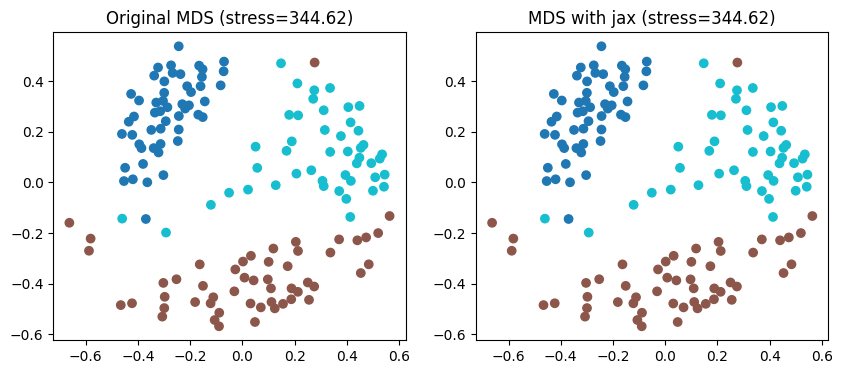
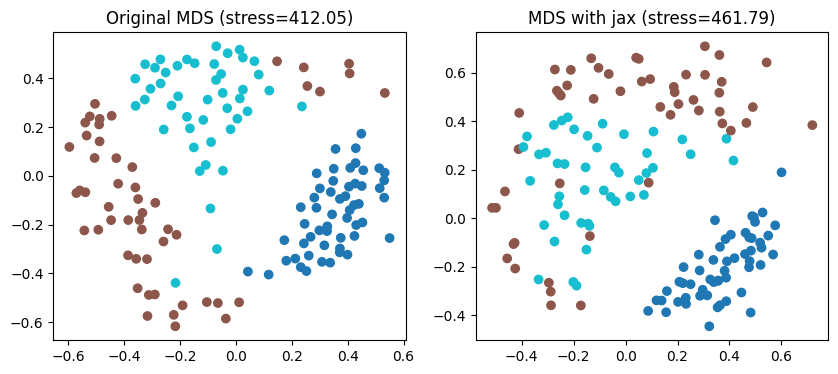
Working version, fix viz centre at (0,0) by using big beta, long training

diff --git a/pmds/lv_pmds.py b/pmds/lv_pmds.py
@@ -1,17 +1,16 @@
 # Latent variable Probabilistic MDS
 
-from itertools import combinations
 import random
-import mlflow
-import numpy as np
+from itertools import combinations
 
 import jax
 import jax.numpy as jnp
-from jax.scipy.stats import multivariate_normal, gamma
+import mlflow
+import numpy as np
 from jax.scipy.special import i0e  # xlogy, gammaln, i0e, i1e
+from jax.scipy.stats import gamma, multivariate_normal
 
 from .score import stress
-
 
 EPSILON = 1e-6
 SCALE = 1e-3
@@ -48,7 +47,7 @@ loss_and_grads_log_llh = jax.jit(
 )
 
 
-def log_prior(mu, tau, mu0=0.0, beta=1.0, a=1.0, b=0.5):
+def log_prior(mu, tau, mu0=0.0, beta=10.0, a=1.0, b=0.5):
     log_mu = multivariate_normal.logpdf(mu, mean=mu0, cov=(1.0 / (beta * tau)) * ones2)
     log_tau = gamma.logpdf(tau, a=a, scale=1.0 / b)
     return jnp.sum(log_mu) + log_tau
@@ -61,7 +60,6 @@ loss_and_grads_log_prior = jax.jit(
         out_axes=0,
     )
 )
-# loss_and_grads_log_prior = jax.value_and_grad(log_prior, argnums=[0, 1])
 
 
 def lv_pmds(
@@ -76,7 +74,7 @@ def lv_pmds(
     fixed_points=[],
     init_mu=None,
     hard_fix=False,
-    method="MAP",
+    method="LV",
 ):
     assert n_components in [2, 4]
 
@@ -84,7 +82,7 @@ def lv_pmds(
     # https://github.com/tensorflow/probability/issues/703
     key_m, key_tau = jax.random.split(jax.random.PRNGKey(random_state))
     # tau = jax.abs(jax.random.normal(key_tau, (n_samples,)))
-    tau_unc = 0.5 * jnp.ones((n_samples,))
+    tau_unc = 1e-1 * jnp.ones((n_samples,))
     if init_mu is not None and init_mu.shape == (n_samples, n_components):
         mu = jnp.array(init_mu)
     else:

diff --git a/pmds/config.py b/pmds/config.py
@@ -304,13 +304,13 @@ pre_config = {
             n_samples=150,  # None for all 537 data points of classes [0 ,1, 2]
             n_components=2,
             batch_size=0,
-            epochs=20,
-            learning_rate=1e-2,
-            random_state=42,
+            epochs=100,
+            learning_rate=2e-2,
+            random_state=33,
             std=False,  # digits already in [0, 1]
             pca=None,
-            epochs_mds=20,
-            # learning_rate_mds=22,
+            epochs_mds=10,
+            learning_rate_mds=20,
             batch_size_mds=500,
         ),
         "iris": dict(
